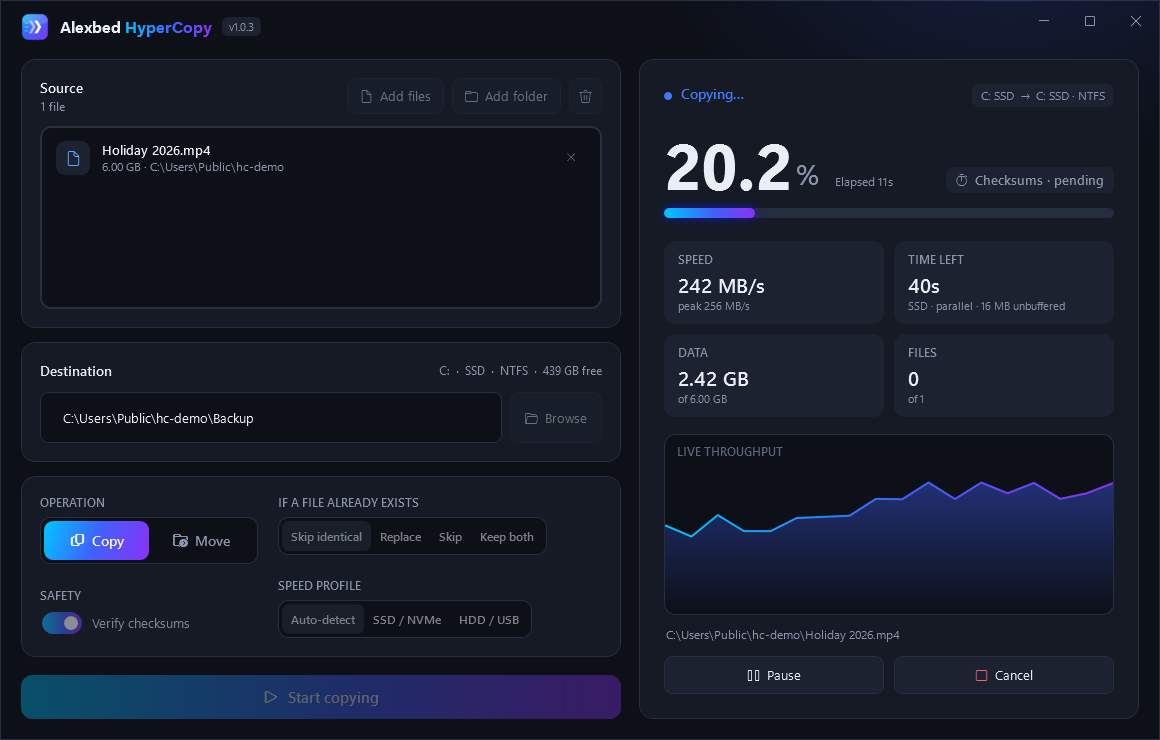
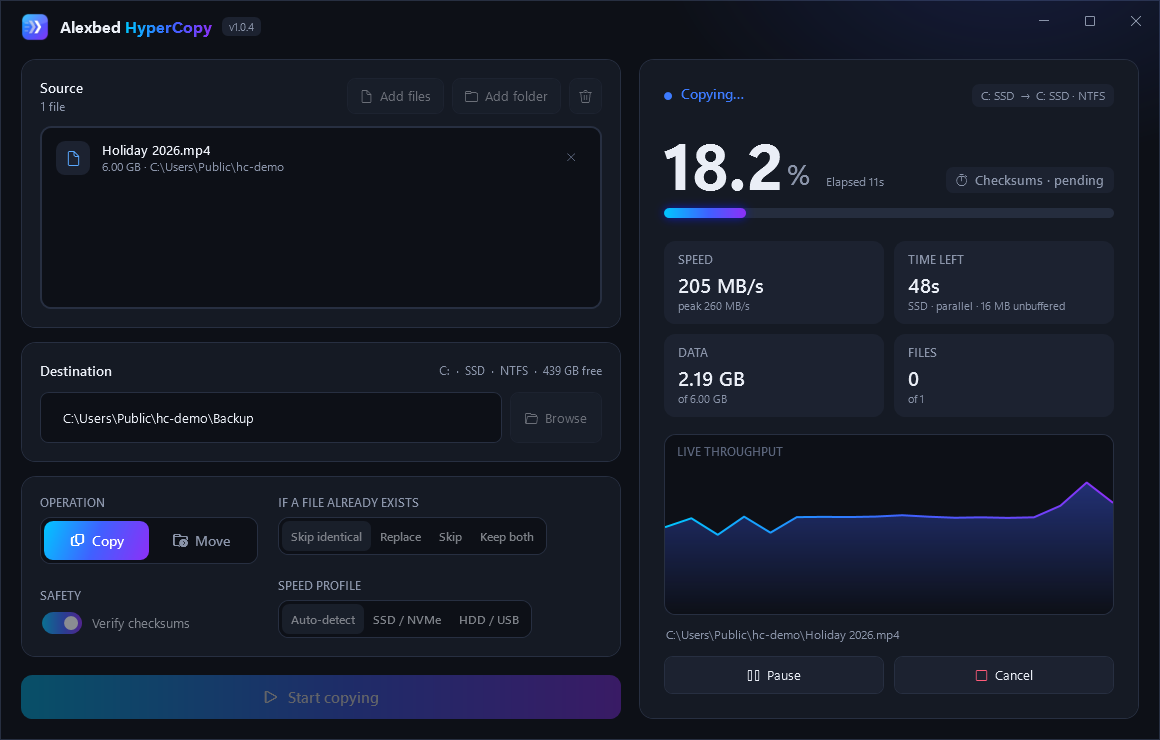
Alexbed HyperCopy 1.0.4: checksum label no longer covers the timer
Screenshots and social card show 1.0.4. USB stick results added to the
benchmarks; all 22 release checks passed incl. USB (exFAT).

diff --git a/docs/benchmark-results.md b/docs/benchmark-results.md
@@ -52,6 +52,24 @@ What we found:
   to pin down.
 - **Open item for v1.1:** close the small-file gap to Robocopy `/MT` on SSDs.
 
+## USB stick (v1.0.4)
+
+Transcend JetFlash 16 GB, exFAT. Source: an app folder on a hard disk (74 files, 213 MB; 9 files of 4 MB+ hold
+191 MB), read from the RAM cache by every tool. Removable drives use Windows' "quick removal" (no write cache), so
+buffered tools also finish only when the data is on the stick.
+
+| Tool | Time | Speed |
+|---|---:|---:|
+| **HyperCopy (auto: 1 stream)** | **33.7 – 36.3 s** | **≈6 MB/s** |
+| Robocopy (1 thread) | 41.8 s | 5.1 MB/s |
+| Windows copy engine (`Copy-Item`) | 49.1 s | 4.3 MB/s |
+| HyperCopy forced to SSD profile (parallel) | 53.8 s | 4.0 MB/s |
+| Robocopy `/MT:8` | 94.2 s | 2.3 MB/s |
+| HyperCopy (auto) + verify | 42.4 s | 5.0 MB/s |
+
+The stick itself is the limit (about 6 MB/s sustained writes). Parallel writes make cheap sticks much slower,
+which is why HyperCopy uses one sequential stream for USB. One run each; single stick.
+
 ## Start-up time (v1.0.2)
 
 Time from launching the exe until the window is visible and idle, median of 5 warm starts (4-core PC, SATA SSD):

diff --git a/CLAUDE.md b/CLAUDE.md
@@ -5,7 +5,7 @@ A free, portable Windows 10/11 app that copies and moves files (up to terabytes)
 choose sources and a destination folder or USB drive, pick **Copy** or **Move**, and watch live speed/ETA. It's one
 of Alexander's "Alexbed" apps, built from scratch with Claude in Nov 2026.
 
-- **Status:** v1.0.3 released 2026-11-15 (same-folder warning, honest result screen, ~15% faster small files; USB not tested); v1.0.2 (uncompressed exes, faster start); v1.0.1 (checksum PASS/FAIL badge); v1.0.0 released 2026-11-13. Public repo https://github.com/alexbedca/Alexbed-HyperCopy
+- **Status:** v1.0.4 released 2026-11-15 (badge overlap fix; all 22 release checks incl. USB passed); v1.0.3 (same-folder warning, honest result screen, ~15% faster small files); v1.0.2 (uncompressed exes, faster start); v1.0.1 (checksum PASS/FAIL badge); v1.0.0 released 2026-11-13. Public repo https://github.com/alexbedca/Alexbed-HyperCopy
   (GPL-3.0-or-later), release with `AlexbedHyperCopy.exe` + `hypercopy.exe` (CLI) + `SHA256SUMS.txt`, CI green,
   social preview set.
 - **Next (v1.1):** close the small-file gap with Robocopy `/MT` on SSD (~2× slower today). See `ROADMAP.md`.

diff --git a/CHANGELOG.md b/CHANGELOG.md
@@ -1,5 +1,13 @@
 # Changelog
 
+## 1.0.4 (2026-11-15)
+
+- Fixed: during a copy with **Verify checksums** on, the checksum label ("Checksums · checked after each file")
+  covered the "Elapsed" timer. It now reads "Checksums · pending" until the first file is checked.
+- Screenshots and the social preview now show the current version.
+- Tested on a USB stick (exFAT) this time: all 22 release checks passed, and HyperCopy was the fastest of the
+  tools measured on it (see [benchmark-results.md](docs/benchmark-results.md#usb-stick-v104)).
+
 ## 1.0.3 (2026-11-15)
 
 Fixes a bug reported on 1.0.2, plus a small speed-up.

diff --git a/README.md b/README.md
@@ -16,7 +16,7 @@
   <a href="../../actions"><img src="https://img.shields.io/github/actions/workflow/status/alexbedca/Alexbed-HyperCopy/build.yml?label=tests" alt="Build status"></a>
 </p>
 
-**Version:** 1.0.3 &nbsp;|&nbsp; **Author:** Alexander Bediako &nbsp;|&nbsp; **Licence:** [GPL-3.0-or-later](LICENSE)
+**Version:** 1.0.4 &nbsp;|&nbsp; **Author:** Alexander Bediako &nbsp;|&nbsp; **Licence:** [GPL-3.0-or-later](LICENSE)
 
 ![HyperCopy copying a 6 GB file at 244 MB/s with a live throughput graph](docs/screenshots/copying.png)
 
